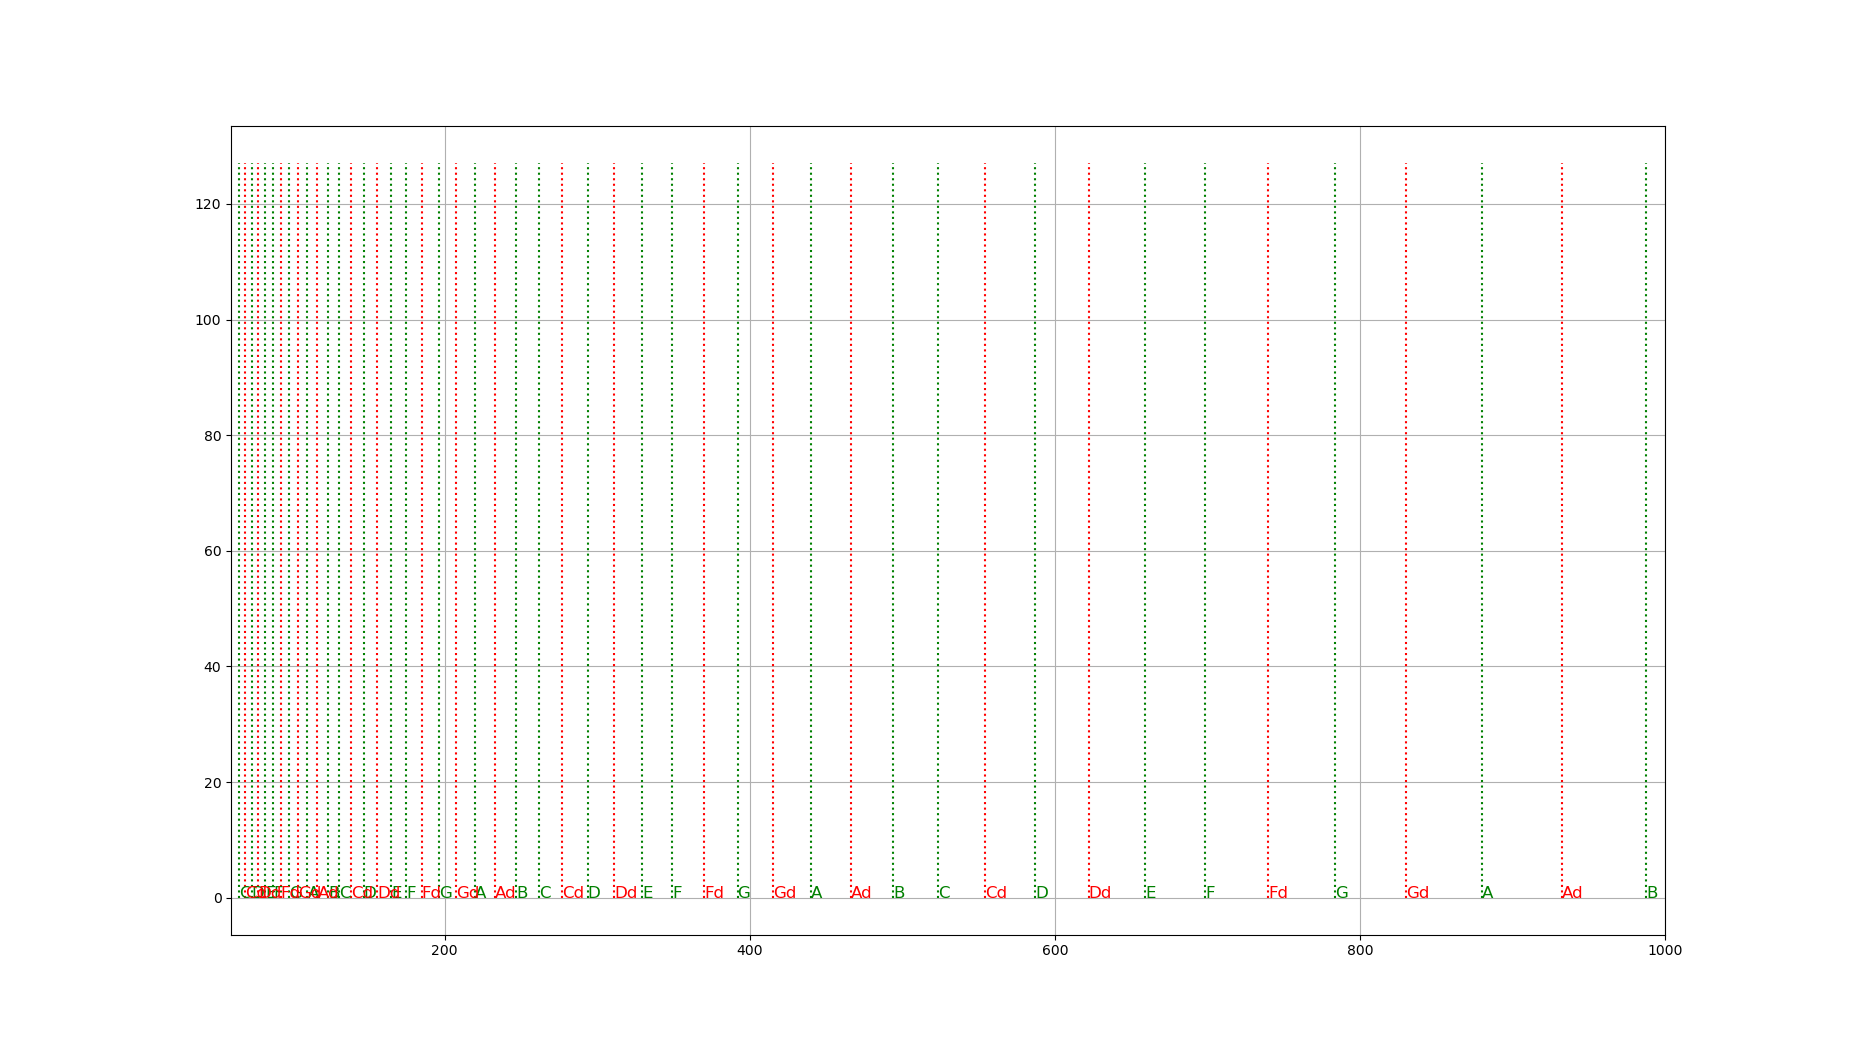
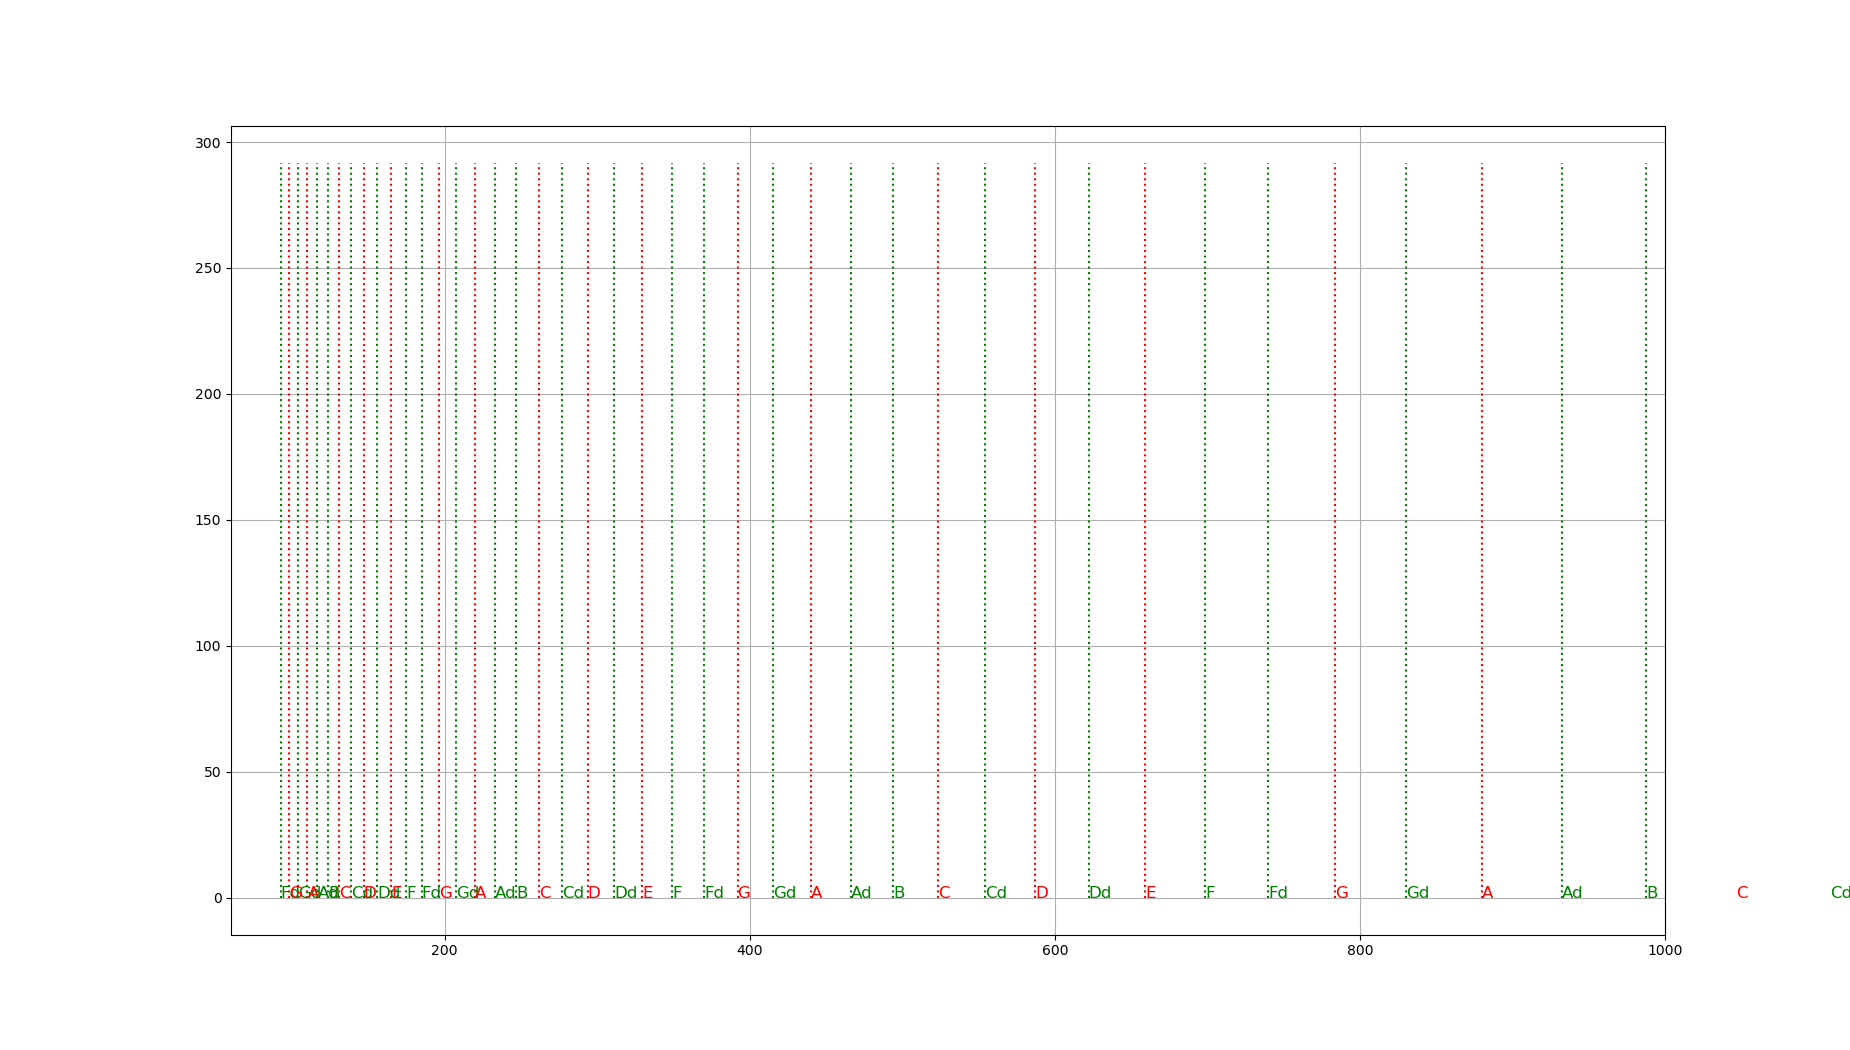
Fixing a bad scale shifting issue in FFT graph with scale

Changed region(s): [[0.0924, 0.1524, 0.2773, 0.8533], [0.3081, 0.8229, 0.3389, 0.8533]]

diff --git a/Function.py b/Function.py
@@ -88,19 +88,15 @@ def compare_vector(our, ref, fundamentals):  # compare 2 scale array and return 
             ponderationRef = 1
             if (our[n] == ref[m]):
                 if (ref[m] == fundamentals[0]):
-                    print("Fundamentals found !")
                     fundaments_found[0]=1
                     ponderationRef = 10
                 if (ref[m] == fundamentals[1]):
-                    print("Tierce found !")
                     ponderationRef = 10
                     fundaments_found[1] = 1
                 if (ref[m] == fundamentals[2]):
-                    print("Quinte found !")
                     ponderationRef = 10
                     fundaments_found[2] = 1
                 if (np.sum(fundaments_found) == 3):
-                    print("found the big three !")
                     ponderationRef = 100
                 ponderationScaleIn = 10 / ((n+1)*(n+1))  #score added decrease with order (power) off note
                 score = score + (10*ponderationScaleIn*ponderationRef)
@@ -172,7 +168,7 @@ def NumberToLetter(scale):
     return letterscale
 
 
-def every_step_show(filename): #usefull for full test of the method
+def every_step_show(filename, realscale): #usefull for full test of the method
     oursong= Audio(filename)
     sample= oursong.sample
     rate = oursong.rate
@@ -186,27 +182,28 @@ def every_step_show(filename): #usefull for full test of the method
 
     scores = score_for_everynote(Spectre, Freq,rate, 10)
     listscale = ["C", "Cd", "D", "Dd", "E", "F", "Fd", "G", "Gd", "A", "Ad", "B"]
-    print("Score for every note :")
+
     for n in range(0, len(listscale)):
         print(listscale[n]," ", scores[n],"     ")
 
-    print("\nThe most powerfull are (in order) :")
+
     scale = GetindexOfMaxNote(scores, 7)
     for n in range(0, len(scale)):
         print(listscale[scale[n]])
 
-    print("\ncomparing with all known Scale")
+
     for n in range(0, len(listscale)):
         refscale=np.add([0,2,4,5,7,9,11],[n, n, n, n, n, n, n])
         fundamentals = [refscale[0], refscale[2], refscale[4]]
         refscale,fundamentals=circularyscale(refscale,fundamentals)
         scalescore = compare_vector(scale, refscale,fundamentals)
-        print("Score for ",listscale[n], " = ", scalescore)
 
-    Show_fft(Spectre,Freq,"C")
-    print("scalescore", scalescore)
+
+    Show_fft(Spectre,Freq,realscale)
+
     scaleChar = compare_with_known_scale(scale)
-    print("scaleChar", scaleChar)
+    print("\n\n  The good scale is", scaleChar)
+
 
 
 def Show_fft(Spectre,Freq,notescale): #need to implemant marker with the good note on the graph
@@ -216,14 +213,13 @@ def Show_fft(Spectre,Freq,notescale): #need to implemant marker with the good no
         if(listscale[i]==notescale):
             scale=i
     gamme = note_frequencies_construct()
-
-    print("gamme[0]",gamme[0])
     Biglistscale=listscale
+
     for n in range (0,scale):
         gamme=np.multiply(gamme,1.05946)#adapt scale frequency to selected scale
         listscale=np.concatenate([listscale,listscale])
-        listscale=listscale[scale:12+scale]
-    print("gamme[0]",gamme[0])
+    listscale=listscale[scale:12+scale]
+
 
     goodnote=[0,2,4,5,7,9,11]
     badnote=[1,3,6,8,10]
@@ -232,6 +228,7 @@ def Show_fft(Spectre,Freq,notescale): #need to implemant marker with the good no
     Biggamme=gamme
     Biggoodnote=goodnote
     Bigbadnote=badnote
+
     for numberofscale in range(0,3):
         gamme=gamme*2
         Biggamme = np.concatenate([Biggamme, gamme])
@@ -241,14 +238,9 @@ def Show_fft(Spectre,Freq,notescale): #need to implemant marker with the good no
         badnote = np.add(badnote, 12)
         Bigbadnote = np.concatenate([Bigbadnote,badnote])
 
-    print("Biggamme len", len(Biggamme))
-    print("Biggamme ", Biggamme)
-    print("Biglist lent", len(Biglistscale))
-    print("Biglist ", Biglistscale)
     plt.grid()
     maxfft=np.max(Spectre)
     plt.xlim(60,1000)
-    print("Biggoodnote", Biggoodnote)
     for n in  Biggoodnote:
         plt.vlines(Biggamme[n], 0, maxfft, linestyles="dotted", colors="green")
         plt.text(Biggamme[n], 0, Biglistscale[n], color="green", fontsize=12)
@@ -256,14 +248,6 @@ def Show_fft(Spectre,Freq,notescale): #need to implemant marker with the good no
         plt.vlines(Biggamme[n], 0, maxfft, linestyles="dotted", colors="red")
         plt.text(Biggamme[n], 0, Biglistscale[n], color="red", fontsize=12)
 
-
-    #for n in range(0,len(Biggamme)):
-        #plt.vlines(Biggamme[n], 0, maxfft, linestyles="dotted", colors="k")
-        #plt.text(Biggamme[n], 0, Biglistscale[n], color="red", fontsize=12)
-    #for n in range(0,len(gamme)):
-        #plt.vlines(gamme[n], 0, maxfft, linestyles="dotted", colors="k")
-        #plt.text(gamme[n], 0,Biglistscale[n], color="red", fontsize=12)
-        #plt.text(gamme[n], 0, str(np.round(gamme[n])), color="red", fontsize=12)
 
     fig = plt.gcf()
     fig.set_size_inches(18.5, 10.5)

diff --git a/main.py b/main.py
@@ -20,6 +20,6 @@ test=[1.0,1,1,5,1,1,1,9,1,1,2,3,5,4]
 test=scipy.ndimage.gaussian_filter1d(test, 1)
 
 print(test)
-every_step_show("Cclean.wav")
+every_step_show("D.wav","Fd")
 
 
